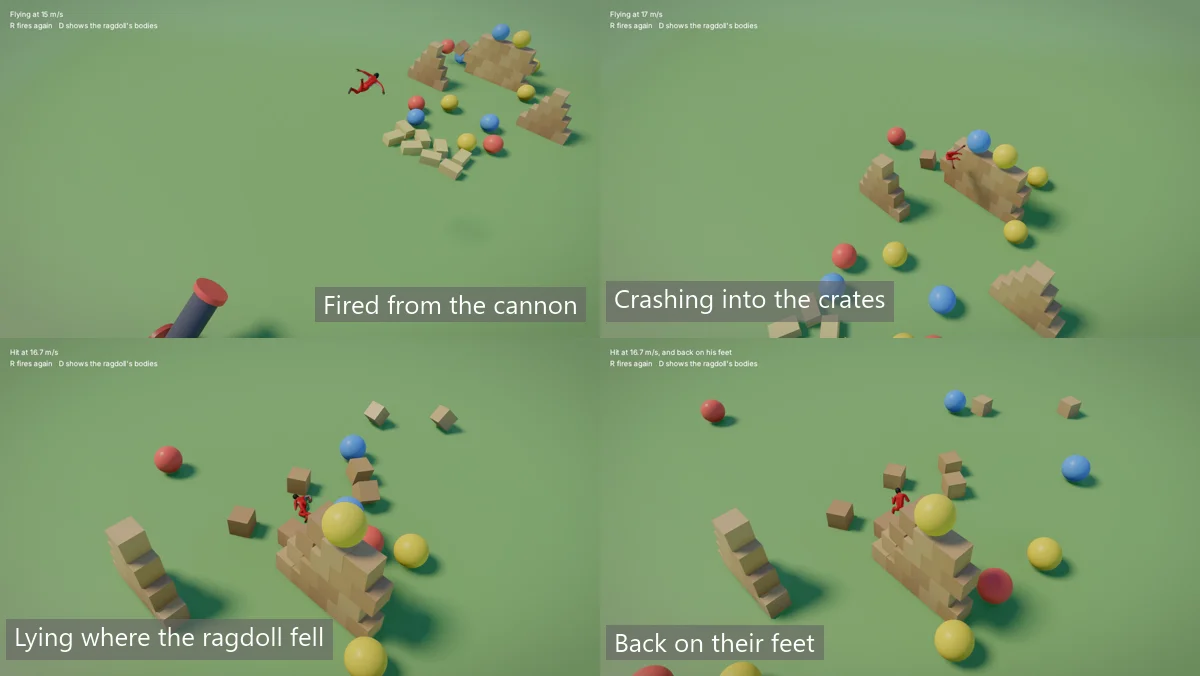
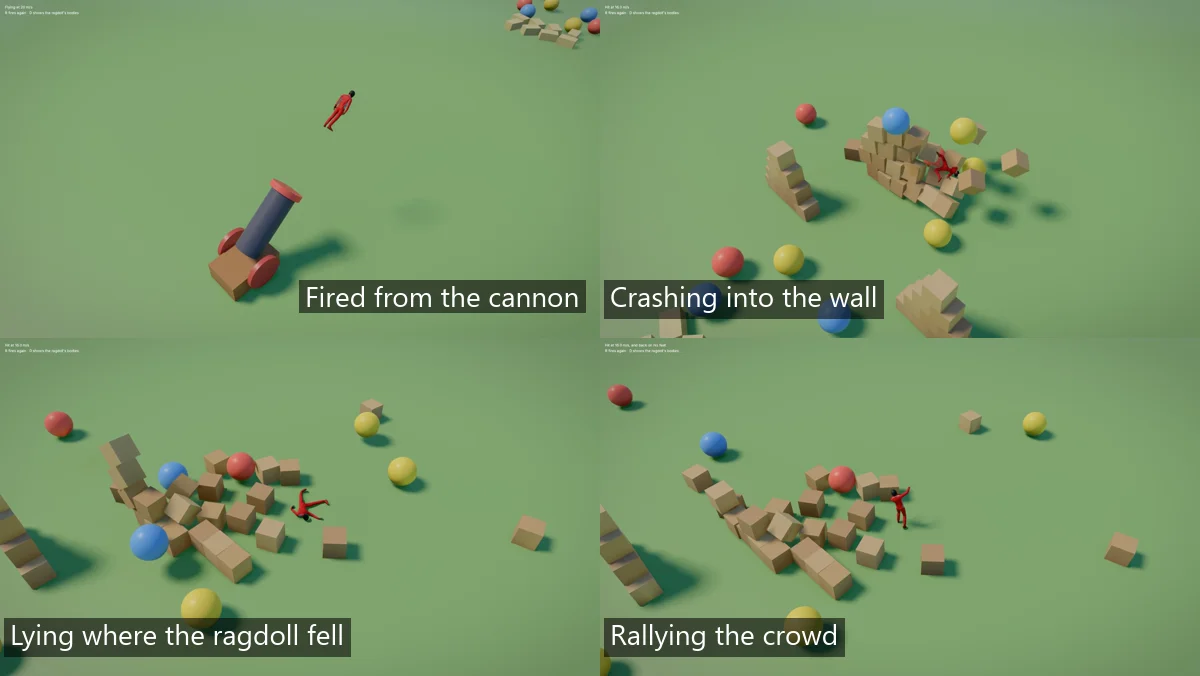
docs: retake the Cannonball round shot with the field moved out and the rally

diff --git a/docs/physics.md b/docs/physics.md
@@ -245,7 +245,7 @@ world.Add(stuntman, new Animated(controller.Start(Stance.Idle)));
 world.Add(stuntman, new Ragdoll(body));
 ```
 
-![A stuntman fired from a cannon, crashing into crates, lying where the ragdoll fell, and back on their feet](media/cannonball-round.webp)
+![A stuntman fired from a cannon, crashing through a wall of crates, lying where the ragdoll fell, and rallying the crowd](media/cannonball-round.webp)
 
 `RagdollBody.Humanoid` suits a rig with the usual human joint names, such as Mixamo's,
 with or without a prefix like `mixamorig:`. It has 16 parts: the pelvis, two spine

diff --git a/examples/Cannonball/README.md b/examples/Cannonball/README.md
@@ -6,7 +6,7 @@ through a wall of crates, pyramids, balls and hay bales, and once they lie still
 up from where they fell, with a get-up clip picked by whether they lie face up or down.
 They rally the crowd, and then the cannon fires again.
 
-![The cannon firing, the crash into the crates, the stuntman lying still, and back on their feet](../../docs/media/cannonball-round.webp)
+![The cannon firing, the crash through the wall, the stuntman lying still, and rallying the crowd](../../docs/media/cannonball-round.webp)
 
 ```
 dotnet run -c Release --project examples/Cannonball
